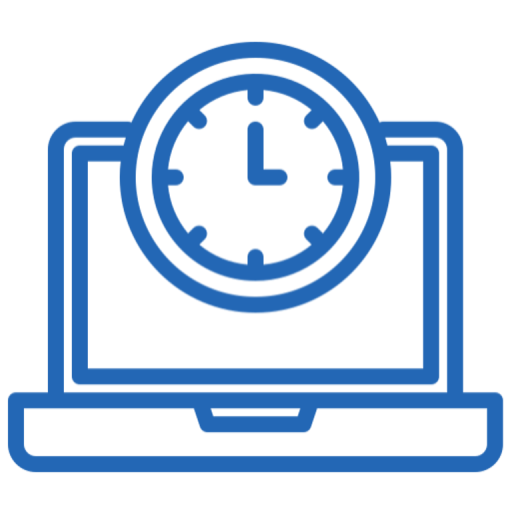
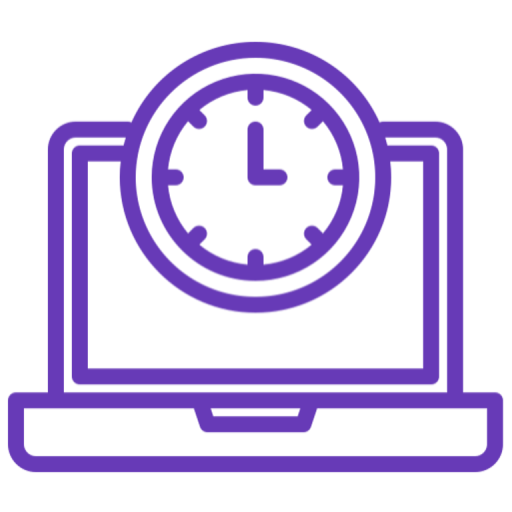
Theme > colour > from 'blue' to 'purple' >changed

Changed region(s): [[0.0, 0.0625, 1.0, 0.9375]]

diff --git a/src/main/webapp/dist-assets/css/themes/ChangeColor.css b/src/main/webapp/dist-assets/css/themes/ChangeColor.css
@@ -2,27 +2,40 @@
     background-color: yellow;
 }
 
+:root{
+    /*--dark-purple:#663399;*/
+    --dark-purple:#673ab7;
+}
+
 .btn-primary{
-    background: #175aa9 !important;
+    /*background: #175aa9 !important;*/
+    background: var(--dark-purple) !important;
 }
 
 .btn-info, .btn-outline-info {
-    border-color: #7583e0 !important;
-    background: #175aa9 !important;
+    /*border-color: #7583e0 !important;*/
+    /*background: #175aa9 !important;*/
+    border-color: var(--dark-purple) !important;
+    background: var(--dark-purple) !important;
 }
 
 .btn-primary, .btn-outline-primary {
-    border-color: #7583e0 !important;
+    /*border-color: #7583e0 !important;*/
+    border-color: var(--dark-purple) !important;
 }
 
 .btn-info:hover, .btn-outline-info:hover {
-    background: #7583e0;
-    box-shadow: 0 8px 25px -8px #7583e0;
+    /*background: #7583e0;*/
+    /*box-shadow: 0 8px 25px -8px #7583e0;*/
+    background: var(--dark-purple);
+    box-shadow: 0 8px 25px -8px var(--dark-purple);
 }
 
 .btn-primary:hover, .btn-outline-primary:hover {
-    background: #7583e0;
-    box-shadow: 0 8px 25px -8px #7583e0;
+    /*background: #7583e0;*/
+    /*box-shadow: 0 8px 25px -8px #7583e0;*/
+    background: var(--dark-purple);
+    box-shadow: 0 8px 25px -8px var(--dark-purple);
 }
 
 

diff --git a/src/main/webapp/Styles/themes/Common.css b/src/main/webapp/Styles/themes/Common.css
@@ -291,7 +291,8 @@ input[type=number]
 .LoginTitle
 {
     text-align: center;
-    color: #663399;
+    /*color: #663399;*/
+    color: #673ab7;
     font-family: Source Sans Pro, sans-serif;
 }
 
